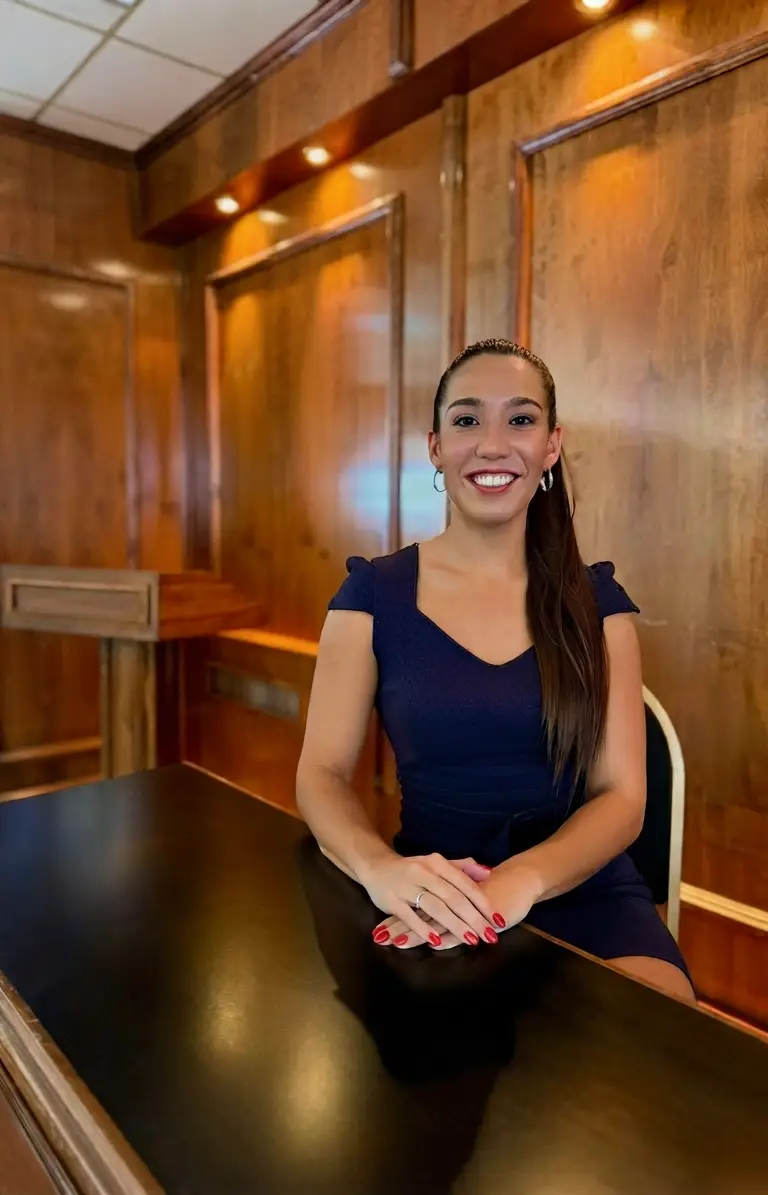
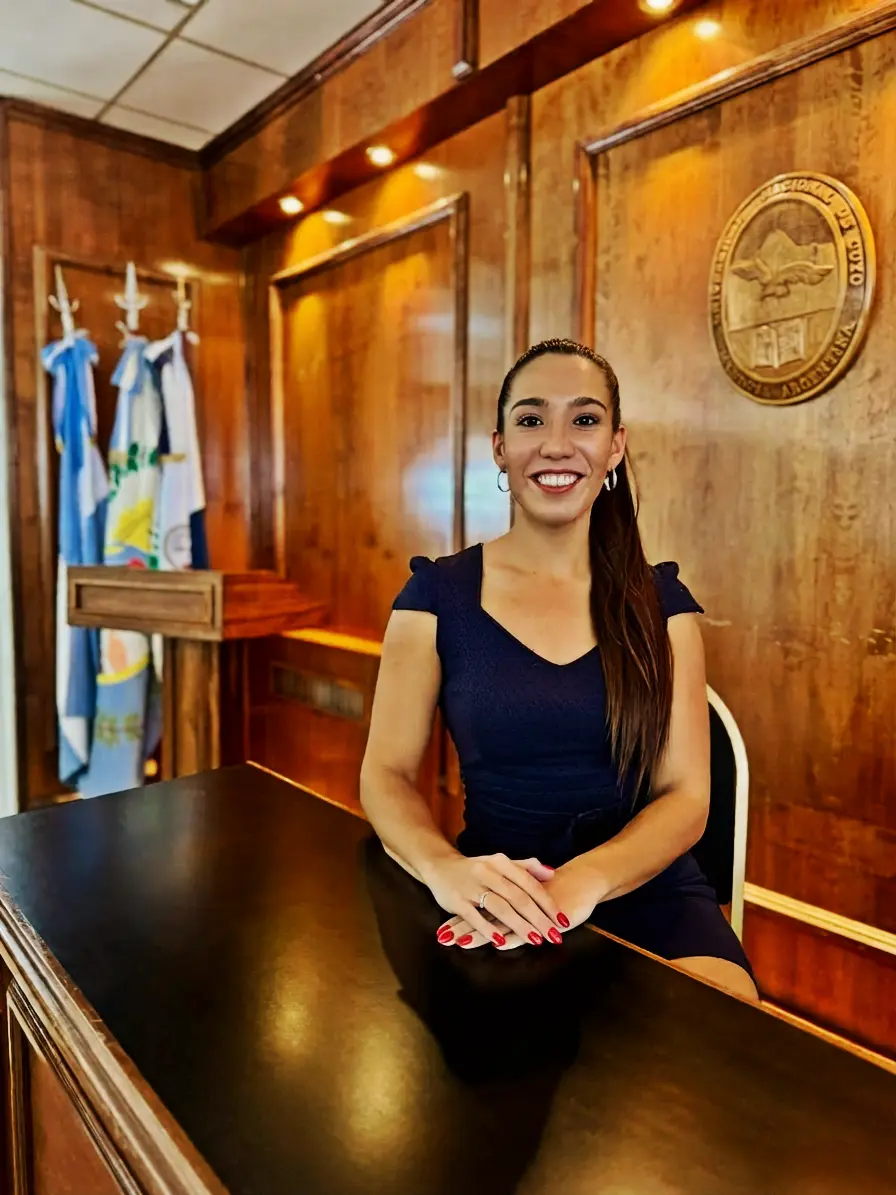
Update

diff --git a/src/components/HomeSection.tsx b/src/components/HomeSection.tsx
@@ -27,7 +27,7 @@ export const HomeSection: React.FC<HomeSectionProps> = ({ setActiveTab, onReques
   };
   const handleNavigateToContact = () => { setActiveTab('contacto'); window.scrollTo({ top: 0, behavior: 'smooth' }); };
   return <div id="home-section" className="relative w-full">
-    <section id="hero-banner" aria-labelledby="hero-title" className="relative flex min-h-[600px] w-full items-center justify-center overflow-hidden pb-16 pt-28 lg:min-h-[640px] lg:pb-20 lg:pt-32"><div className="absolute inset-0 bg-cover bg-center" style={{ backgroundImage: `url(${ASSETS.heroOffice})` }} aria-hidden="true" /><div className="absolute inset-0 bg-gradient-to-br from-[#181614]/95 via-[#231F1C]/90 to-[#2A2522]/80" aria-hidden="true" /><div className="relative z-10 mx-auto flex w-full max-w-7xl flex-col justify-center px-4 sm:px-6 lg:px-8"><div className="grid grid-cols-1 items-center gap-8 lg:grid-cols-12 lg:gap-12"><div className="space-y-6 lg:col-span-8 lg:space-y-8"><div className="animate-in fade-in slide-in-from-bottom-4 duration-700"><h1 id="hero-title" className="mb-3 font-serif text-2xl font-bold leading-tight text-white sm:text-2xl lg:text-3xl">Abogada Emilia Sandobar</h1><h2 className="mb-6 max-w-4xl font-serif text-4xl font-bold leading-[1.05] tracking-tight text-white sm:text-5xl lg:text-6xl">Defensa penal y representación de víctimas <span className="text-[#D9A9B8]">en Mendoza</span></h2><p className="max-w-2xl text-base font-light leading-relaxed text-white sm:text-lg lg:text-xl">litigación compleja y asesoramiento corporativo para personas y organizaciones que necesitan una estrategia jurídica rigurosa y una intervención profesional directa.</p></div></div><div className="mx-auto w-full max-w-md lg:col-span-4 lg:ml-auto lg:mr-0"><div className="space-y-6 border border-white/20 bg-[#181614]/80 p-6 backdrop-blur-md sm:p-8"><h2 className="font-serif text-xl font-bold leading-tight text-white sm:text-2xl">¿Necesita asistencia jurídica?</h2><div className="space-y-3"><button type="button" onClick={handleNavigateToContact} className={`flex w-full cursor-pointer items-center justify-center gap-2 bg-[#7F203D] px-8 py-3.5 text-xs font-bold uppercase tracking-widest text-white shadow-md transition-colors hover:bg-[#691931] ${lightFocusRing}`}><span>Solicitar consulta</span><ArrowRight className="h-4 w-4 shrink-0" aria-hidden="true" /></button><button type="button" onClick={() => handleNavigateToServices()} className={`flex w-full cursor-pointer items-center justify-center gap-2 border border-white/50 bg-transparent py-3 text-xs font-bold uppercase tracking-widest text-white transition-colors hover:bg-white/10 ${lightFocusRing}`}><span>Ver servicios</span></button></div></div></div></div></div></section>
+    <section id="hero-banner" aria-labelledby="hero-title" className="relative flex min-h-[600px] w-full items-center justify-center overflow-hidden pb-16 pt-28 lg:min-h-[640px] lg:pb-20 lg:pt-32"><div className="absolute inset-0 bg-cover bg-center" style={{ backgroundImage: `url(${ASSETS.heroOffice})` }} aria-hidden="true" /><div className="absolute inset-0 bg-gradient-to-br from-[#181614]/95 via-[#231F1C]/90 to-[#2A2522]/80" aria-hidden="true" /><div className="relative z-10 mx-auto flex w-full max-w-7xl flex-col justify-center px-4 sm:px-6 lg:px-8"><div className="grid grid-cols-1 items-center gap-8 lg:grid-cols-12 lg:gap-12"><div className="space-y-6 lg:col-span-8 lg:space-y-8"><div className="animate-in fade-in slide-in-from-bottom-4 duration-700"><h1 id="hero-title" className="mb-3 font-serif text-2xl font-bold leading-tight text-white sm:text-2xl lg:text-3xl">Abogada Emilia Sandobar</h1><h2 className="mb-6 max-w-4xl font-serif text-4xl font-bold leading-[1.05] tracking-tight text-white sm:text-5xl lg:text-6xl">Defensa penal y representación de víctimas <span className="text-[#D9A9B8]">en Mendoza</span></h2><p className="max-w-2xl text-base font-light leading-relaxed text-white sm:text-lg lg:text-xl">Litigación compleja y asesoramiento corporativo para personas y organizaciones que necesitan una estrategia jurídica rigurosa y una intervención profesional directa.</p></div></div><div className="mx-auto w-full max-w-md lg:col-span-4 lg:ml-auto lg:mr-0"><div className="space-y-6 border border-white/20 bg-[#181614]/80 p-6 backdrop-blur-md sm:p-8"><h2 className="font-serif text-xl font-bold leading-tight text-white sm:text-2xl">¿Necesita asistencia jurídica?</h2><div className="space-y-3"><button type="button" onClick={handleNavigateToContact} className={`flex w-full cursor-pointer items-center justify-center gap-2 bg-[#7F203D] px-8 py-3.5 text-sm font-bold uppercase tracking-widest text-white shadow-md transition-colors hover:bg-[#691931] ${lightFocusRing}`}><span>Guardia Legal 24 hs.</span><ArrowRight className="h-4 w-4 shrink-0" aria-hidden="true" /></button><button type="button" onClick={() => handleNavigateToServices()} className={`flex w-full cursor-pointer items-center justify-center gap-2 border border-white/50 bg-transparent py-3 text-xs font-bold uppercase tracking-widest text-white transition-colors hover:bg-white/10 ${lightFocusRing}`}><span>Ver servicios</span></button></div></div></div></div></div></section>
     <section id="home-services-section" aria-labelledby="services-title" className="w-full border-b border-[#302D28]/10 bg-[#FAF6F0] py-16 lg:py-24"><div className="mx-auto max-w-7xl space-y-12 px-4 sm:px-6 lg:space-y-16 lg:px-8"><div className="flex flex-col justify-between gap-6 md:flex-row md:items-end"><div className="max-w-3xl space-y-4"><p className="text-xs font-bold uppercase tracking-widest text-[#7F203D]">Áreas de práctica especializada</p><h2 id="services-title" className="font-serif text-3xl font-bold leading-[1.15] tracking-tight text-[#302D28] sm:text-4xl">Servicios legales</h2><p className="text-base font-light leading-relaxed text-[#302D28]/80 sm:text-lg">Intervención técnica y estratégica para personas, empresas y organizaciones que necesitan una respuesta jurídica rigurosa.</p></div><button type="button" onClick={() => handleNavigateToServices()} className={`group inline-flex shrink-0 cursor-pointer items-center gap-3 pb-1 text-xs font-bold uppercase tracking-widest text-[#7F203D] transition-colors hover:text-[#691931] sm:text-sm ${darkFocusRing}`}><span>Ver todos los servicios</span><ArrowRight className="h-4 w-4 transition-transform group-hover:translate-x-1" /></button></div>
       <div className="-mx-4 flex snap-x snap-mandatory gap-5 overflow-x-auto px-4 pb-5 [scrollbar-width:none] [-ms-overflow-style:none] sm:mx-0 sm:grid sm:grid-cols-2 sm:overflow-visible sm:px-0 sm:pb-0 sm:snap-none lg:grid-cols-4" style={{ WebkitOverflowScrolling: 'touch' }}>
         {SERVICE_AREAS.map((area) => <button key={area.number} type="button" onClick={() => handleNavigateToServices(area.target)} className={`group relative flex min-h-[290px] w-[82vw] shrink-0 snap-center flex-col justify-between overflow-hidden border border-[#DDD2C5] bg-[#302D28] p-6 text-left transition-all duration-300 hover:-translate-y-1 hover:shadow-lg sm:w-auto sm:shrink sm:snap-align-none sm:p-7 ${darkFocusRing}`}>

diff --git a/src/components/Footer.tsx b/src/components/Footer.tsx
@@ -19,8 +19,8 @@ export const Footer: React.FC<FooterProps> = ({ onOpenConsultationModal }) => {
         <div className="grid grid-cols-1 gap-10 border-b border-[#FFF8F2]/10 pb-14 md:grid-cols-2 lg:grid-cols-12 lg:gap-12">
           <div className="space-y-5 lg:col-span-4">
             <span className="block pb-1 text-xs font-bold uppercase tracking-widest text-[#DDD2C5]">Jurisdicción &amp; Cobertura</span>
-            <p className="text-sm font-light leading-relaxed text-[#F4EFE8]/75" itemProp="description">Estudio jurídico especializado en Derecho Penal Económico, Litigación de Alta Complejidad y Programas de Integridad Corporativa en la Provincia de Mendoza y Fueros Federales de Cuyo.</p>
-            <div className="space-y-2.5 border-t border-[#FFF8F2]/10 pt-3 text-sm text-[#DDD2C5]">
+            <p className="text-sm font-light leading-relaxed text-[#F4EFE8]/75" itemProp="description">Estudio jurídico especializado en Derecho Penal, Litigación de Alta Complejidad y Programas de Integridad Corporativa en la Provincia de Mendoza y Fueros Federales de Cuyo.</p>
+            <div className="space-y-2.5 text-sm text-[#DDD2C5]">
               <div className="flex items-center gap-2.5"><Scale className="h-4 w-4 shrink-0 text-[#7F203D]" aria-hidden="true" /><span className="font-semibold text-white/90">{CONTACT_INFO.matriculaProvincial}</span></div>
               <div className="flex items-start gap-2.5 text-sm text-white/70"><Shield className="mt-0.5 h-4 w-4 shrink-0 text-emerald-400/80" aria-hidden="true" /><span>{CONTACT_INFO.matriculaFederal}</span></div>
             </div>
@@ -40,12 +40,47 @@ export const Footer: React.FC<FooterProps> = ({ onOpenConsultationModal }) => {
 
           <div className="space-y-4 lg:col-span-3">
             <span className="block pb-1 text-xs font-bold uppercase tracking-widest text-[#DDD2C5]">Oficina</span>
-            <div className="flex items-start gap-3" itemProp="address" itemScope itemType="https://schema.org/PostalAddress"><MapPin className="mt-0.5 h-4 w-4 shrink-0 text-[#7F203D]" aria-hidden="true" /><div><span className="block text-sm font-medium text-white" itemProp="streetAddress">Peatonal Sarmiento 250, 2° B</span><span className="block text-sm leading-relaxed text-white/70"><span itemProp="addressLocality">Mendoza</span>, <span itemProp="addressRegion">Mendoza</span>, <span itemProp="addressCountry">Argentina</span></span></div></div>
-            <div className="flex items-center gap-3"><Phone className="h-4 w-4 shrink-0 text-[#7F203D]" aria-hidden="true" /><a href={`tel:${CONTACT_INFO.phone.replace(/\s+/g, '')}`} className={`text-sm text-[#F4EFE8]/85 transition-colors hover:text-white ${focusRing}`} itemProp="telephone">{CONTACT_INFO.phone}</a></div>
-            <div className="flex items-center gap-3"><Mail className="h-4 w-4 shrink-0 text-[#7F203D]" aria-hidden="true" /><a href={`mailto:${CONTACT_INFO.email}`} className={`text-sm text-[#F4EFE8]/85 transition-colors hover:text-white ${focusRing}`} itemProp="email">{CONTACT_INFO.email}</a></div>
-            <div className="flex items-center gap-3 text-sm text-[#F4EFE8]/70"><Clock className="h-4 w-4 shrink-0 text-[#7F203D]" aria-hidden="true" /><span>Lunes a Viernes: 08:30 - 19:30 hs</span></div>
-            <Link to={TAB_TO_PATH.contacto} onClick={handleInternalNavigation} className={`inline-flex pt-1 text-xs font-semibold uppercase tracking-wider text-[#D9A9B8] transition-colors hover:text-white ${focusRing}`}>Ver información de contacto →</Link>
+
+            <div className="flex items-start gap-3" itemProp="address" itemScope itemType="https://schema.org">
+              <MapPin className="mt-0.5 h-4 w-4 shrink-0 text-[#7F203D]" aria-hidden="true" />
+              <div>
+                <span className="block text-sm font-medium text-white" itemProp="streetAddress">Peatonal Sarmiento 250, 2° B</span>
+                <span className="block text-sm leading-relaxed text-white/70">
+                  <span itemProp="addressLocality">Mendoza</span>, <span itemProp="addressRegion">Mendoza</span>, <span itemProp="addressCountry">Argentina</span>
+                </span>
+              </div>
+            </div>
+
+            <div className="flex items-center gap-3">
+              <Phone className="h-4 w-4 shrink-0 text-[#7F203D]" aria-hidden="true" />
+              <a href={`tel:${CONTACT_INFO.phone.replace(/\s+/g, '')}`} className={`text-sm text-[#F4EFE8]/85 transition-colors hover:text-white ${focusRing}`} itemProp="telephone">
+                {CONTACT_INFO.phone}
+              </a>
+            </div>
+
+            <div className="flex items-center gap-3">
+              <Mail className="h-4 w-4 shrink-0 text-[#7F203D]" aria-hidden="true" />
+              <a href={`mailto:${CONTACT_INFO.email}`} className={`text-sm text-[#F4EFE8]/85 transition-colors hover:text-white ${focusRing}`} itemProp="email">
+                {CONTACT_INFO.email}
+              </a>
+            </div>
+
+            <div className="flex items-center pb-3 gap-3 text-sm text-[#F4EFE8]/70">
+              <Clock className="h-4 w-4 shrink-0 text-[#7F203D]" aria-hidden="true" />
+              <span>Lunes a Viernes: 08:30 - 19:30 hs</span>
+            </div>
+
+            {/* MAPA CORREGIDO Y RESPONSIVO */}
+            <iframe
+              src="https://www.google.com/maps/embed?pb=!1m18!1m12!1m3!1d534.9279330191238!2d-68.84286682563646!3d-32.89049785125825!2m3!1f0!2f0!3f0!3m2!1i1024!2i768!4f13.1!3m3!1m2!1s0x967e09006f8b7889%3A0xc443f303f20ae177!2sEdificio%20Sarmiento%20250!5e0!3m2!1ses-419!2sar!4v1788220379420!5m2!1ses-419!2sar"
+              className="w-full aspect-video rounded-lg shadow-sm"
+              style={{ border: 0 }}
+              allowFullScreen={true}
+              loading="lazy"
+              referrerPolicy="strict-origin-when-cross-origin"
+            ></iframe>
           </div>
+
         </div>
         <div className="flex flex-col items-center justify-between gap-6 pt-10 text-xs text-[#F4EFE8]/70 md:flex-row">
           <div className="order-1 text-center text-xs md:order-2 md:text-left"><span>© {new Date().getFullYear()} Todos los derechos reservados.</span></div>
